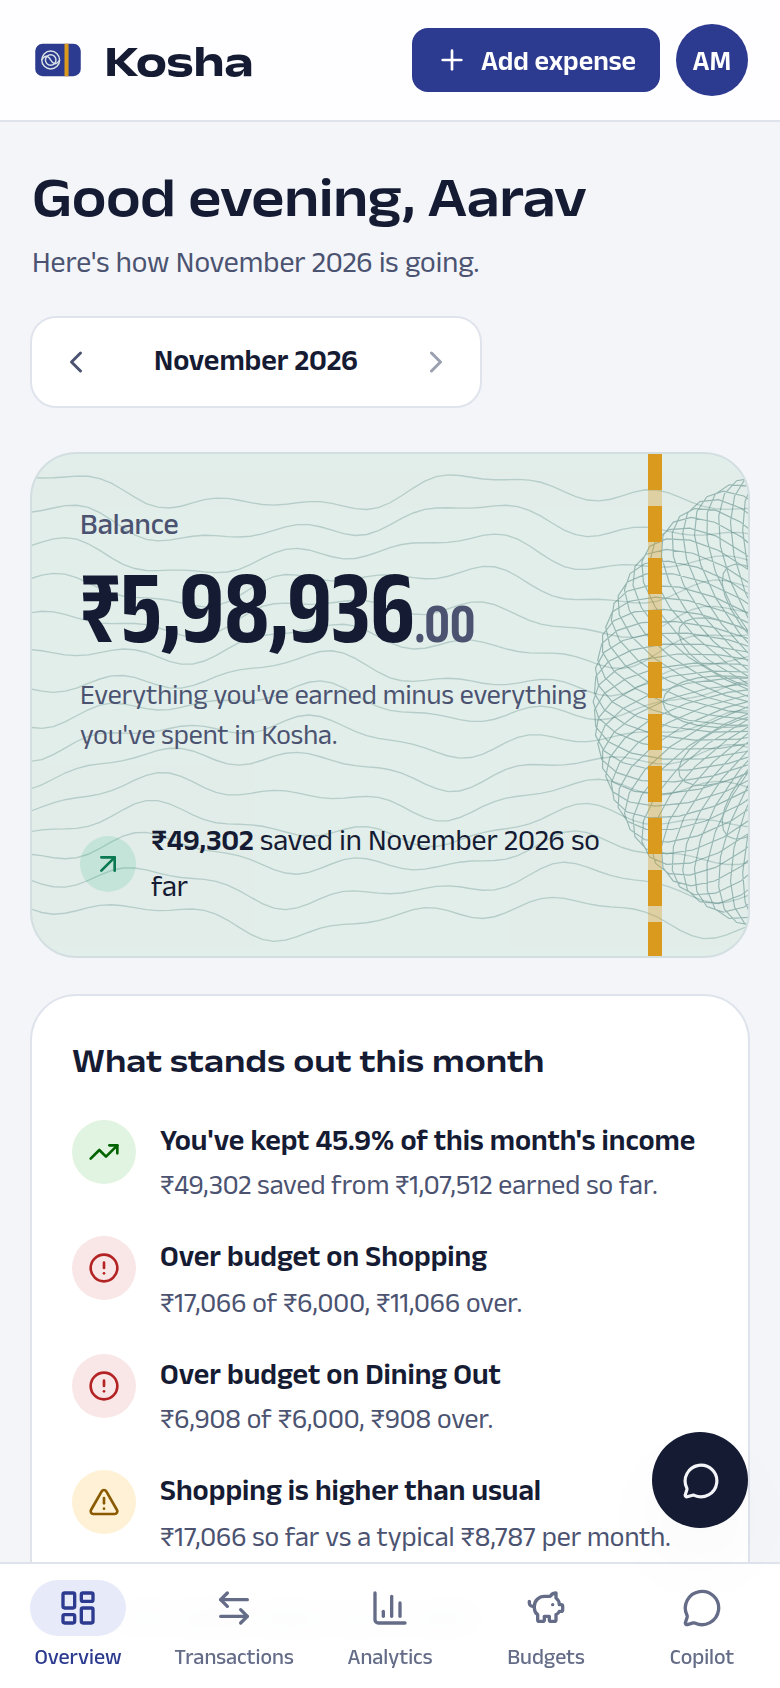
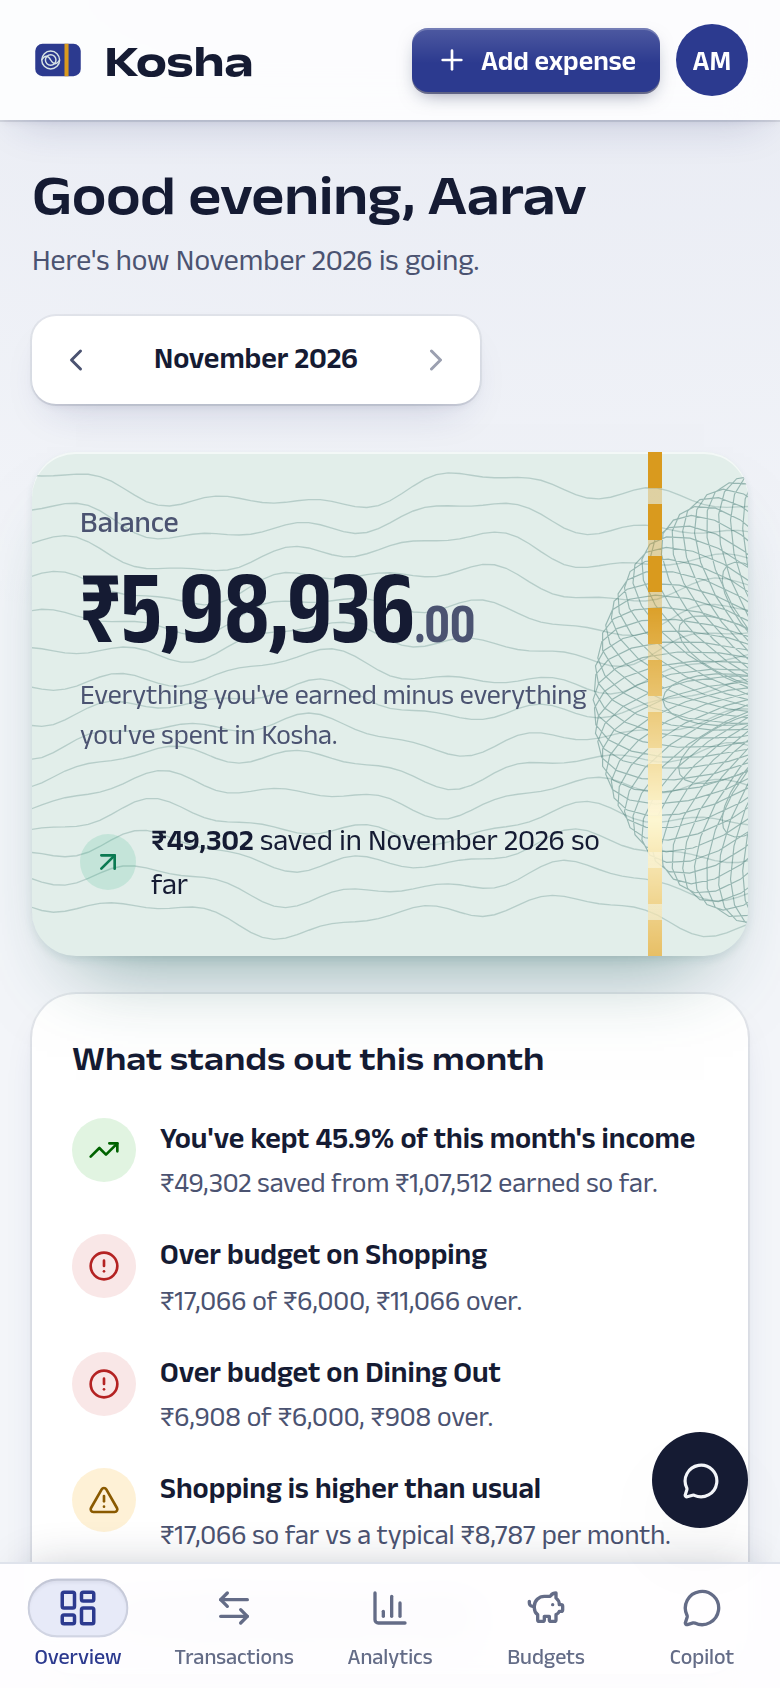
docs: depth, motion and PWA install steps in README; refresh screenshots; plain key badges on the rail

diff --git a/client/src/components/layout/AppShell.jsx b/client/src/components/layout/AppShell.jsx
@@ -45,11 +45,11 @@ const SHORTCUTS = [
 const QuickAddContext = createContext({ openAdd: () => {}, openEdit: () => {} });
 export const useQuickAdd = () => useContext(QuickAddContext);
 
-export const Kbd = ({ children, className, inverse = false }) => (
+export const Kbd = ({ children, className, inverse = false, plain = false }) => (
   <kbd
     className={clsx(
       'inline-flex min-w-6 items-center justify-center rounded-md px-1.5 py-0.5 font-sans text-[0.75rem] font-semibold ring-1',
-      inverse ? 'bg-white/20 text-brand-ink ring-white/30' : 'bg-surface-2 text-ink-2 ring-line-strong',
+      !plain && (inverse ? 'bg-white/20 text-brand-ink ring-white/30' : 'bg-surface-2 text-ink-2 ring-line-strong'),
       className,
     )}
   >
@@ -101,14 +101,14 @@ function Sidebar({ onAdd, onShortcuts }) {
               <Plus size={18} aria-hidden />
               Add expense
             </span>
-            <Kbd className="bg-black/10 text-[#2a1c00] ring-black/15">N</Kbd>
+            <Kbd plain className="bg-black/10 text-[#2a1c00] ring-black/15">N</Kbd>
           </Button>
           <Button className="w-full justify-between !bg-white/8 !text-rail-ink ring-1 ring-white/12 hover:!bg-white/14" onClick={() => onAdd('income')} title="Shortcut: I">
             <span className="inline-flex items-center gap-2">
               <ArrowUpRight size={18} aria-hidden />
               Add income
             </span>
-            <Kbd className="bg-white/10 text-rail-ink ring-white/20">I</Kbd>
+            <Kbd plain className="bg-white/10 text-rail-ink ring-white/20">I</Kbd>
           </Button>
         </div>
 
@@ -147,7 +147,7 @@ function Sidebar({ onAdd, onShortcuts }) {
           >
             <Keyboard size={16} aria-hidden />
             Keyboard shortcuts
-            <Kbd className="ml-auto bg-white/10 text-rail-ink ring-white/20">?</Kbd>
+            <Kbd plain className="ml-auto bg-white/10 text-rail-ink ring-white/20">?</Kbd>
           </button>
           <div className="flex items-center gap-3 rounded-xl border-t border-white/10 px-2 pt-3">
             <span

diff --git a/README.md b/README.md
@@ -17,6 +17,7 @@ are saved only after you confirm them.
 - **Kosha Copilot:** plain-language questions ("Where is my money going?", "Compare this month with last month") answered from your data, with inline charts. Say "Spent 450 on groceries yesterday" and it drafts the entry for you to confirm.
 - **Settings:** profile, password, light/dark/system theme, custom categories, and which Copilot engine is active.
 - Responsive from 360 px phones (bottom tab bar and account menu) to wide desktops, with keyboard support and a table view for every chart.
+- **Installable app (PWA):** add Kosha to a phone's home screen or a desktop dock. It opens full screen, starts offline, and has "Add expense" and "Add income" shortcuts on the app icon.
 
 ### Designed to be easy to use
 
@@ -25,6 +26,12 @@ are saved only after you confirm them.
 - **Calmer filters:** search, type and a "When" menu (This month, Last month, Last 30 days) up front; everything else under "More filters", with every active filter shown as a removable chip.
 - **Plain-language help:** a "?" next to terms like Savings rate explains what they mean.
 - **Accessible:** WCAG AA text contrast in both themes, labelled controls, visible focus, a show/hide toggle on password fields.
+
+### Depth and motion
+
+- **Tactile surfaces:** cards are raised paper with a top-edge highlight and ink-tinted shadows, inputs and toggles are pressed-in wells, and buttons are bevelled keys that sink when you press them. A dark indigo rail holds the navigation.
+- **The banknote:** the balance card tips towards your mouse in 3D, a sheen follows the light and the security thread glints like foil.
+- **Motion with a reason:** the balance and monthly figures count up, dashboard panels rise in sequence on load, and dialogs, menus, chips, toasts and page changes animate to show what changed. All of it switches off when the system asks for reduced motion.
 
 ### Keyboard shortcuts
 
@@ -68,6 +75,18 @@ Open http://localhost:5173 and sign in with the seed-dataset demo account
 
 mongo-express is available at http://localhost:8081 to browse the database.
 
+### Use it on your phone (PWA)
+
+```bash
+npm run pwa        # production build on http://localhost:4173 with the API, reachable on your network
+```
+
+- **On the laptop:** open http://localhost:4173 in Chrome or Edge and choose **Install Kosha app** in the sidebar (or the install icon in the address bar).
+- **On a phone on the same Wi-Fi:** open `http://<your-laptop-ip>:4173` (Vite prints the Network address). Browsers only allow installing and offline mode over HTTPS or localhost, so on a plain LAN address Kosha works as a normal mobile website. To install it on the phone, serve it over HTTPS (for example with a tunnel such as `cloudflared tunnel --url http://localhost:4173`) and use **Add to Home Screen**.
+- `npm run dev:lan` is the same as `npm run dev` but reachable from other devices, for testing layouts on a real phone.
+
+The service worker caches only the app shell (HTML, scripts, styles, icons, fonts). Balances and transactions always come live from the API and are never cached on the device.
+
 ### Enable the Gemini engine for Copilot
 
 1. Create a free API key at [Google AI Studio](https://aistudio.google.com/apikey).
@@ -87,6 +106,8 @@ When Gemini is enabled, your question and the figures Copilot looks up are sent 
 | Command | What it does |
 |---|---|
 | `npm run dev` | API (watch mode) and Vite dev server together |
+| `npm run dev:lan` | The same, reachable from phones on your network |
+| `npm run pwa` | Production build plus API on :4173, installable as an app |
 | `npm test` | Shared, server and client test suites |
 | `npm run test:coverage` | Server and client tests with coverage |
 | `npm run e2e` | Playwright end-to-end journeys in Google Chrome (starts the dev servers if needed) |
@@ -105,9 +126,9 @@ Development followed test-driven development: each feature started with a failin
 
 | Suite | Tests | Notes |
 |---|---|---|
-| shared | 62 | money parsing and formatting, IST dates, validation schemas |
+| shared | 63 | money parsing and formatting, IST dates, validation schemas |
 | server | 153 | unit (parser, intents, Gemini loop, seed) and API integration against MongoDB, 89% statement coverage |
-| client | 28 | API client, filter reducer, transaction form, KPI strip, Copilot draft card |
+| client | 83 | API client, filters, transaction form, KPI strip, onboarding, menus, hotkeys, 3D tilt and count-up, PWA manifest, service worker, install and offline |
 | e2e | 10 | sign-up, CRUD and dashboard totals, filters, undo, validation, Copilot confirm, budgets |
 
 ## Project structure
@@ -120,7 +141,7 @@ server/      Express API
   src/agent         Copilot: tools, Gemini provider, offline engine, insights
   scripts/          seed.js, dump.sh
   tests/            unit and integration suites
-client/      React app (features/, components/, api/, styles/)
+client/      React app (features/, components/, api/, pwa/, styles/); public/ holds the manifest, icons and sw.js
 e2e/         Playwright specs and the screenshot script
 database/    initdb restore script and the committed seed dump
 docs/report/ project report, diagrams, screenshots and test evidence
